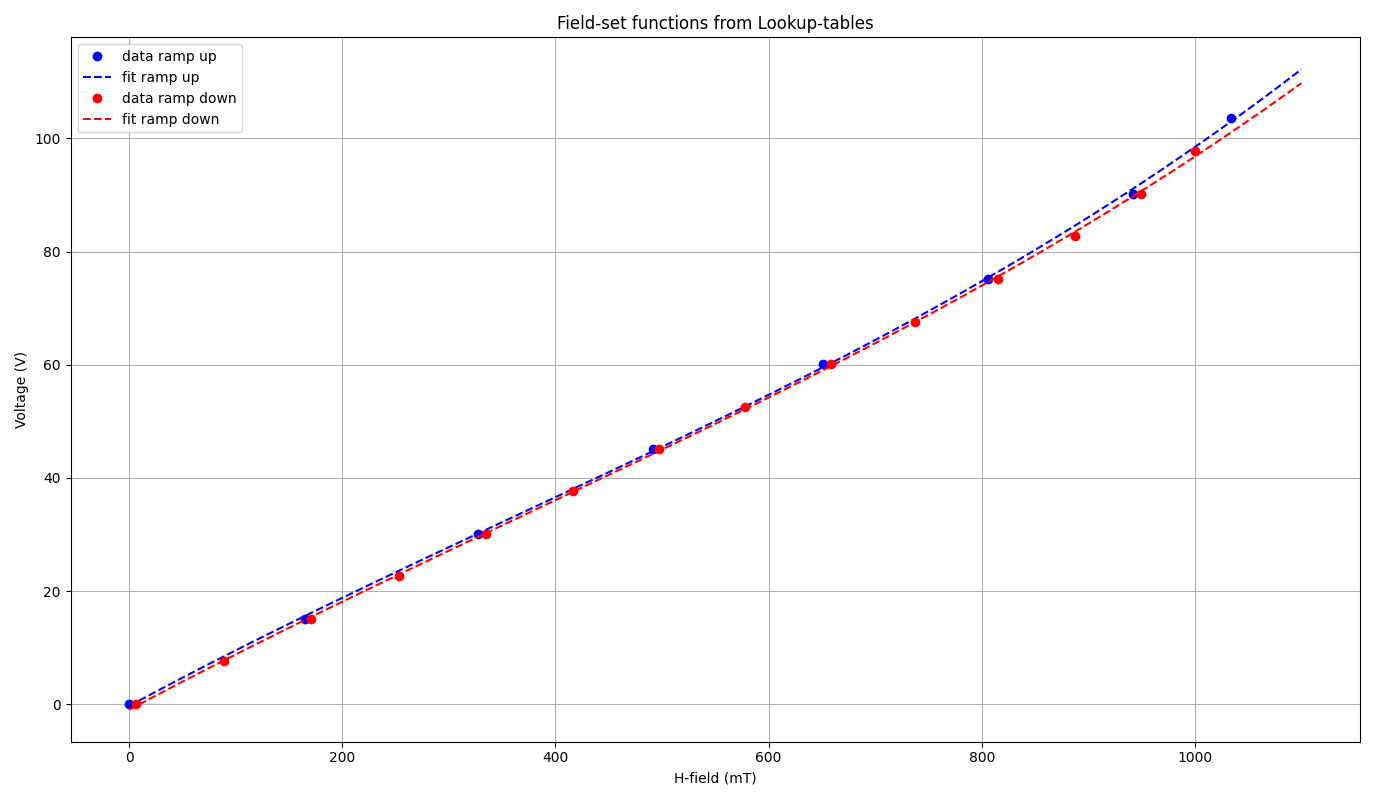
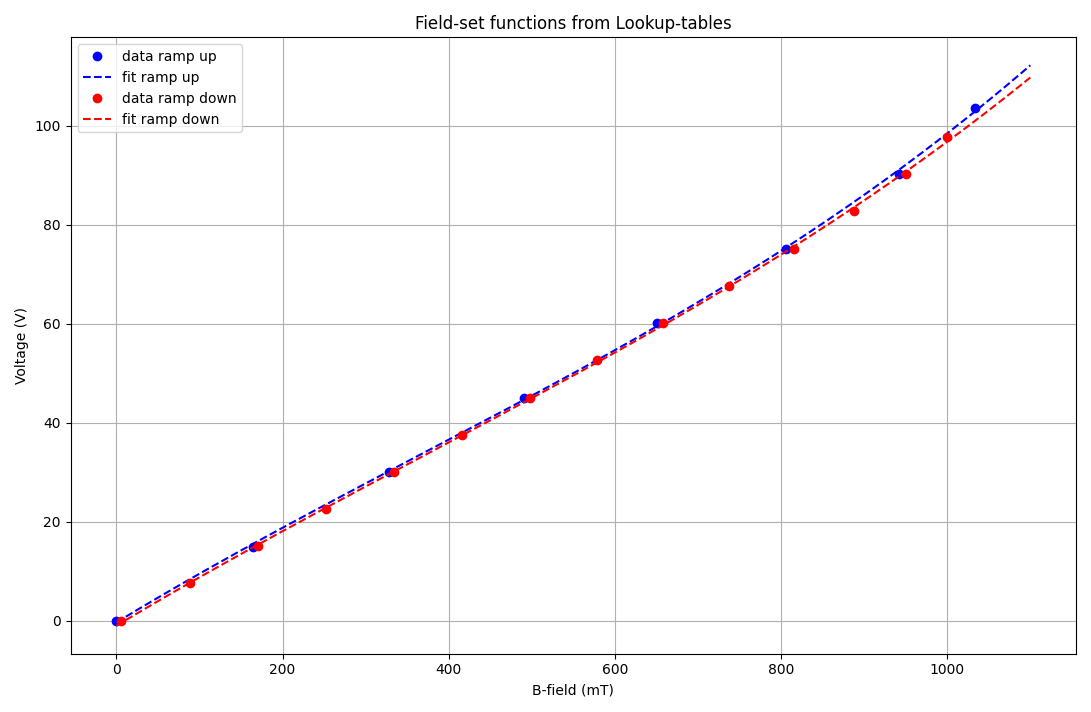
H to B typo

diff --git a/tests/SetValues_test.py b/tests/SetValues_test.py
@@ -18,7 +18,7 @@ def main():
     ax1.set_ylim(-10,1100)
     color = "tab:red"
     ax1.set_xlabel("index")
-    ax1.set_ylabel("H-Field (mT)", color=color)
+    ax1.set_ylabel("B-Field (mT)", color=color)
     ax1.plot(hm.set_field, color=color, linestyle='dashed', label="Set Field")
     ax1.tick_params(axis='y', labelcolor=color)
 

diff --git a/tests/LookupFit_test.py b/tests/LookupFit_test.py
@@ -26,7 +26,7 @@ def main():
     plt.plot(H,down.getValue(H), "--r", label="fit ramp down")
 
     plt.grid(which='major',axis='both')
-    plt.xlabel("H-field (mT)")
+    plt.xlabel("B-field (mT)")
     plt.ylabel("Voltage (V)")
     plt.legend(loc="best")
     plt.legend()
